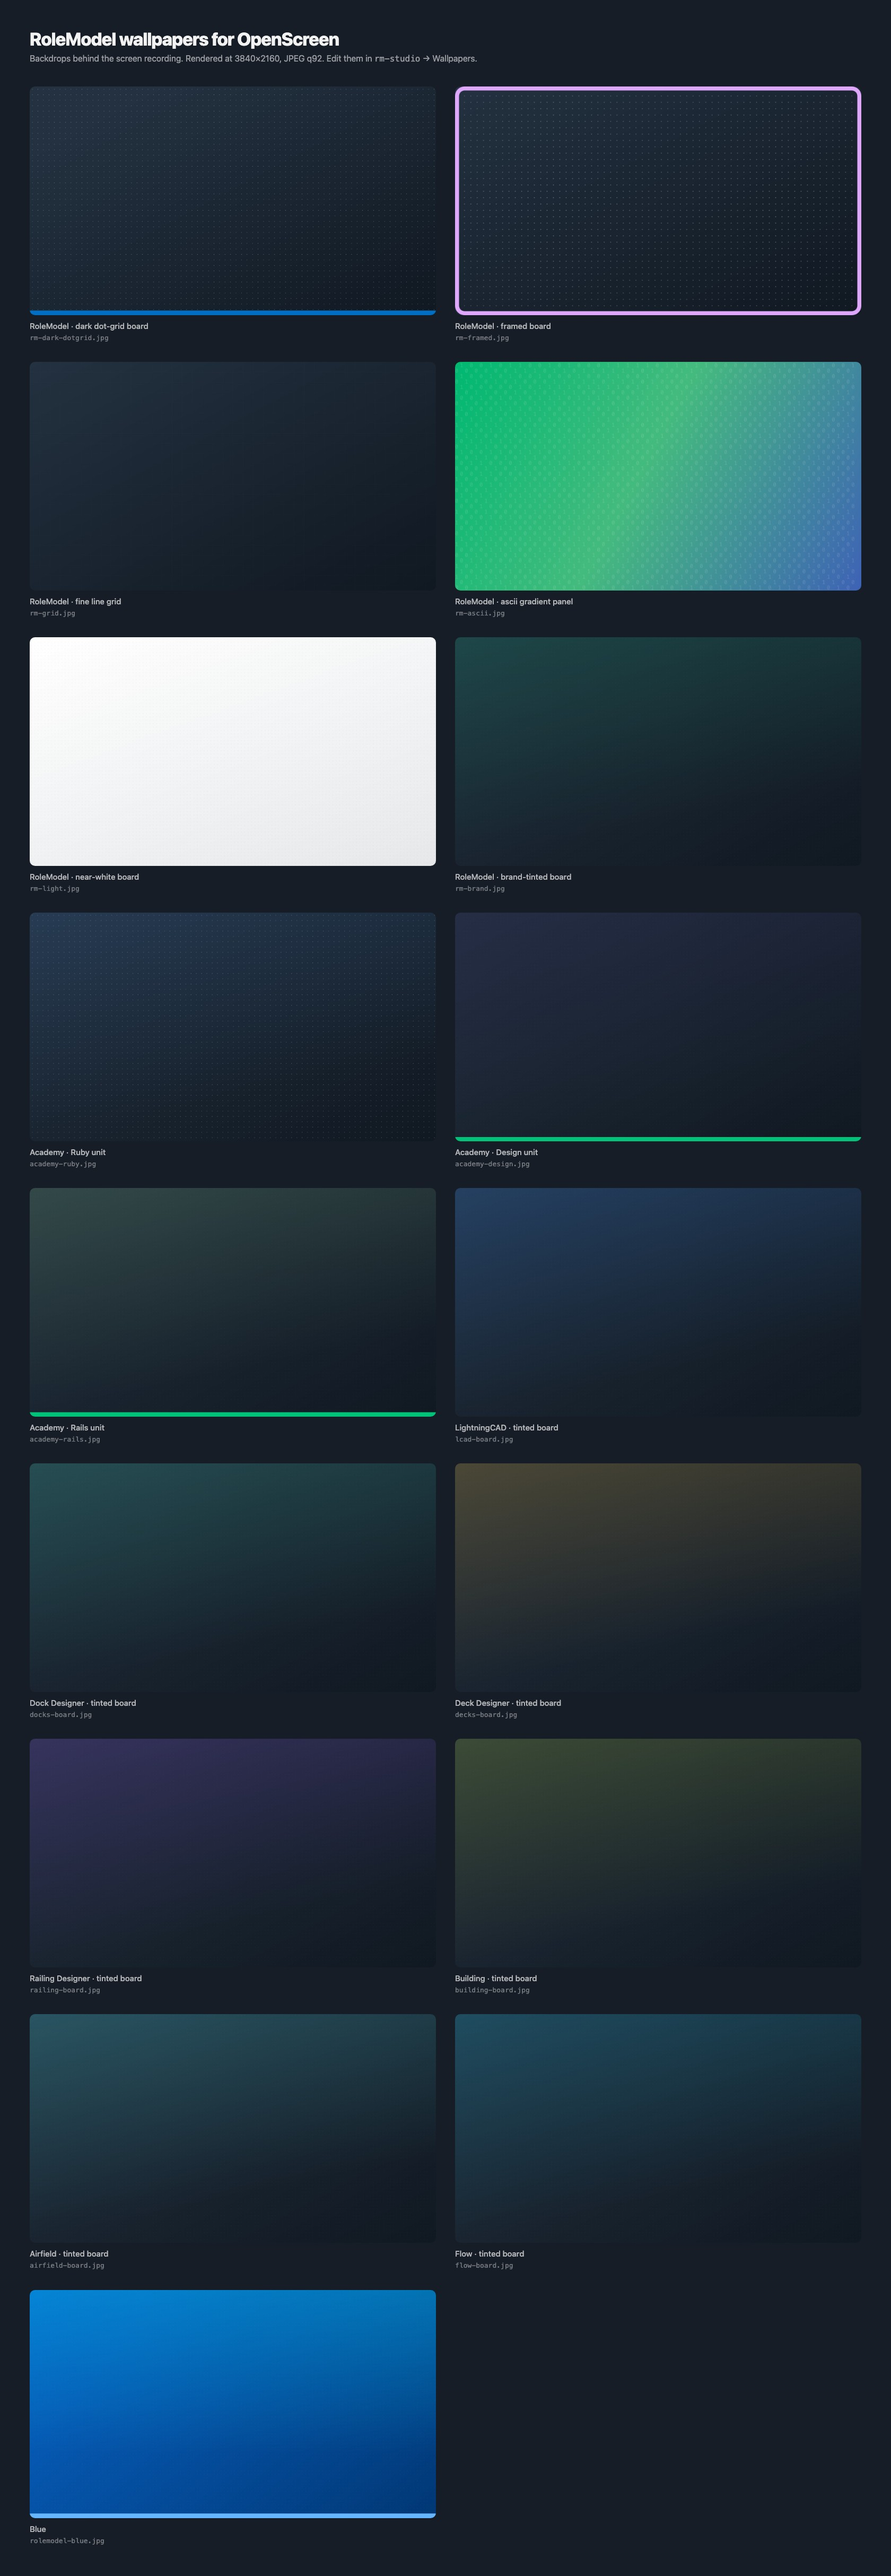
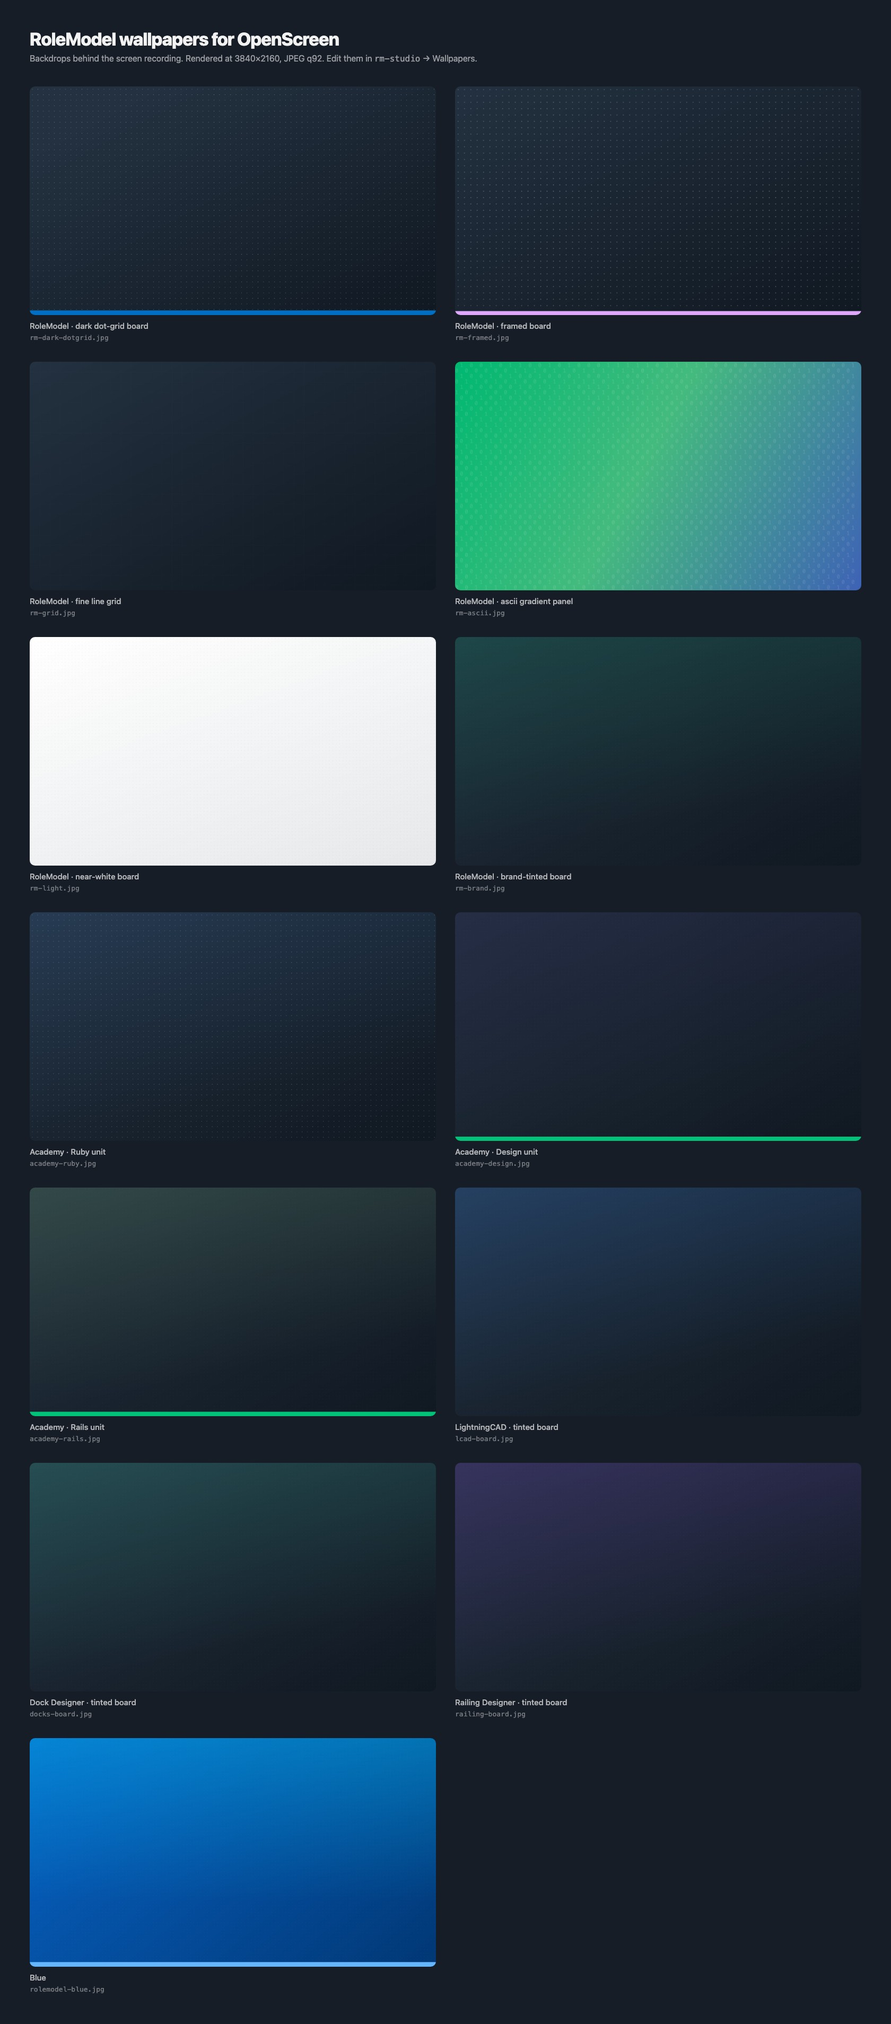
Offer four sub-brands, not eight
Building, Airfield, Flow and Deck Designer are gone from the toolkit's list, which
leaves Craftsmanship Academy, LightningCAD, Dock Designer and Railing Designer.
Their four `*-board` wallpaper recipes and renders go with them.

Removed in `SUB_BRANDS` in lib/sync-brand.mjs, not in brand/optics-tokens.json.
That file is a Figma export and those scales are real products — deleting from it
would put them back on the next export and silently disagree with Optics. It also
would not have worked: brand/tokens.json is generated from that export, so editing
tokens.json directly is undone by the next `npm run sync-brand`, which is exactly
what happened on the first attempt. The toolkit's own list is the only thing that
decides what appears.

And make-wallpapers prunes now. It only ever wrote, so removing a recipe left its
JPEG in the output directory with nothing referencing it — not the recipes, not
index.json, not the contact sheet — and the only way to be rid of it was to know it
was there and delete it by hand. Reported as "I can't remove any of the
wallpapers", which was exactly right. Skipped under --only: a run that knows about
one recipe has no business calling the other twelve orphans.

lib/optics-css.mjs still lists all eight scales in its header, correctly — it
describes what the Figma export carries and what rolemodel-scales.css generates,
which has not changed.

613 assertions pass. brand/wallpapers/rm-framed.jpg and the `sides` line in
[…]

diff --git a/components/gallery.html b/components/gallery.html
@@ -154,7 +154,7 @@
     <h2>rm-browser</h2>
     <div class="sig">url · image · src · w · at · for</div>
     <div class="frame">
-      <rm-scene wallpaper="../brand/wallpapers/flow-board">
+      <rm-scene wallpaper="../brand/wallpapers/lcad-board">
         <rm-browser at="200" style="left:16%; top:50%; transform:translateY(-50%)" w="68"
           url="app.rolemodelsoftware.com/estimates"></rm-browser>
         <rm-callout at="1200" x="66" y="42" text="Live pricing"></rm-callout>

diff --git a/lib/studio.js b/lib/studio.js
@@ -3306,7 +3306,7 @@ function buildEditor(r, onSaved) {
     (v) => {
       r.name = v
     },
-    'flow-board',
+    'lcad-board',
   )
   textRow(
     idb,

diff --git a/DESIGN.md b/DESIGN.md
@@ -119,7 +119,7 @@ It is also honest about being a console. Buttons run real commands and the exact
 
 A near-neutral dark ramp with a single green accent. The neutrals are not grey—Optics tints them toward the brand hue (214 at 4% saturation), which is why the page reads as very slightly cool rather than flat black. That 214 is not Optics' own default of 216: `brand/optics/rolemodel-scales.css` seeds `--op-color-primary-h/s/l` from RoleModel's Figma export, and Optics defines `--op-color-neutral-h` as `var(--op-color-primary-h)`, so the greys follow the brand hue rather than a package default. The supplement deliberately does *not* set `--op-color-neutral-s`: the export resolves the greys flat, and writing 0% over Optics' 4% would remove the tint this paragraph is about.
 
-Every color resolves through an Optics custom property. Optics computes its ramps in CSS from three numbers with `light-dark()`, so setting one hue re-tints all 486 tokens; writing a hex here would break that and quietly drift from the system with every Optics release. The eight RoleModel sub-brand scales (academy, lcad, docks, decks, railing, building, airfield, flow) live in `brand/optics/rolemodel-scales.css`, generated from the Figma export because the open-source package does not publish them.
+Every color resolves through an Optics custom property. Optics computes its ramps in CSS from three numbers with `light-dark()`, so setting one hue re-tints all 486 tokens; writing a hex here would break that and quietly drift from the system with every Optics release. The RoleModel sub-brand scales live in `brand/optics/rolemodel-scales.css`, generated from the Figma export because the open-source package does not publish them. All of them stay in that file — they are real products and the export is Optics' to define — while `SUB_BRANDS` in `lib/sync-brand.mjs` decides which four the toolkit offers as choices: academy, lcad, docks, railing.
 
 Ramps run `plus` toward the background and `minus` toward the foreground **in both modes**, so the mapping above is written once and stays correct if the pinned scheme is ever lifted.
 

diff --git a/PRODUCT.md b/PRODUCT.md
@@ -109,9 +109,11 @@ three named as load-bearing:
   token, an unresolvable `--op-` token, or a hand-written hex in the Studio.
   *(Enforced in CI today, but not named load-bearing — treat it as a live
   engineering constraint rather than a fixed principle.)*
-- Eight sub-brands, each a real Optics scale: Craftsmanship Academy,
-  LightningCAD, Dock Designer, Deck Designer, Railing Designer, Building,
-  Airfield, Flow.
+- Four sub-brands, each a real Optics scale: Craftsmanship Academy,
+  LightningCAD, Dock Designer, Railing Designer. Optics carries scales for Deck
+  Designer, Building, Airfield and Flow too, and they stay in the Figma export
+  because they are real products — this toolkit just does not offer them as
+  choices. `SUB_BRANDS` in `lib/sync-brand.mjs` is the list that decides.
 - CSS and JS are built inside tagged template literals, which is load-bearing
   and fragile: a backtick in a CSS comment silently terminates the literal and
   the page renders as unstyled tags. `npm run check` runs `node --check` over
